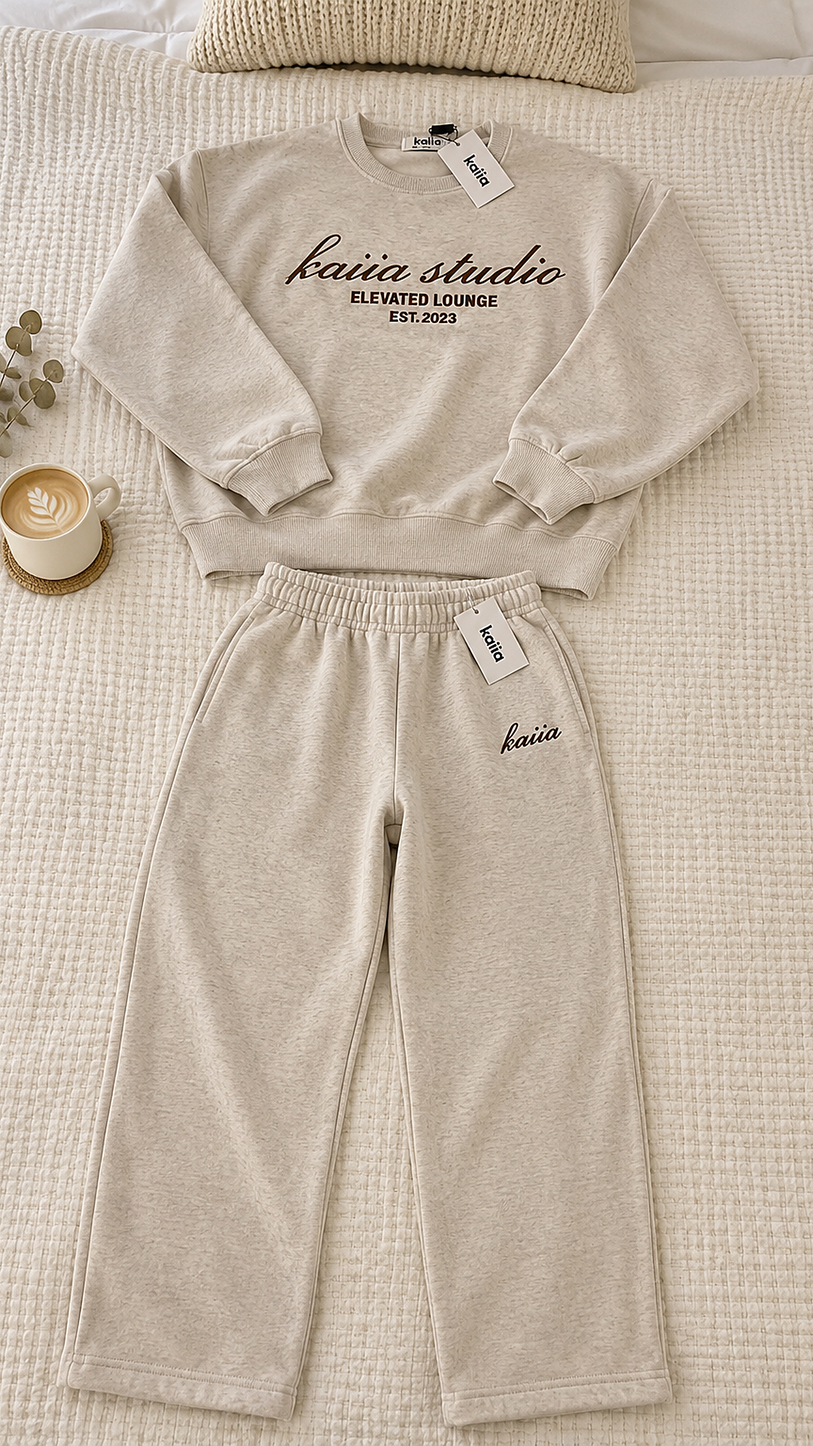
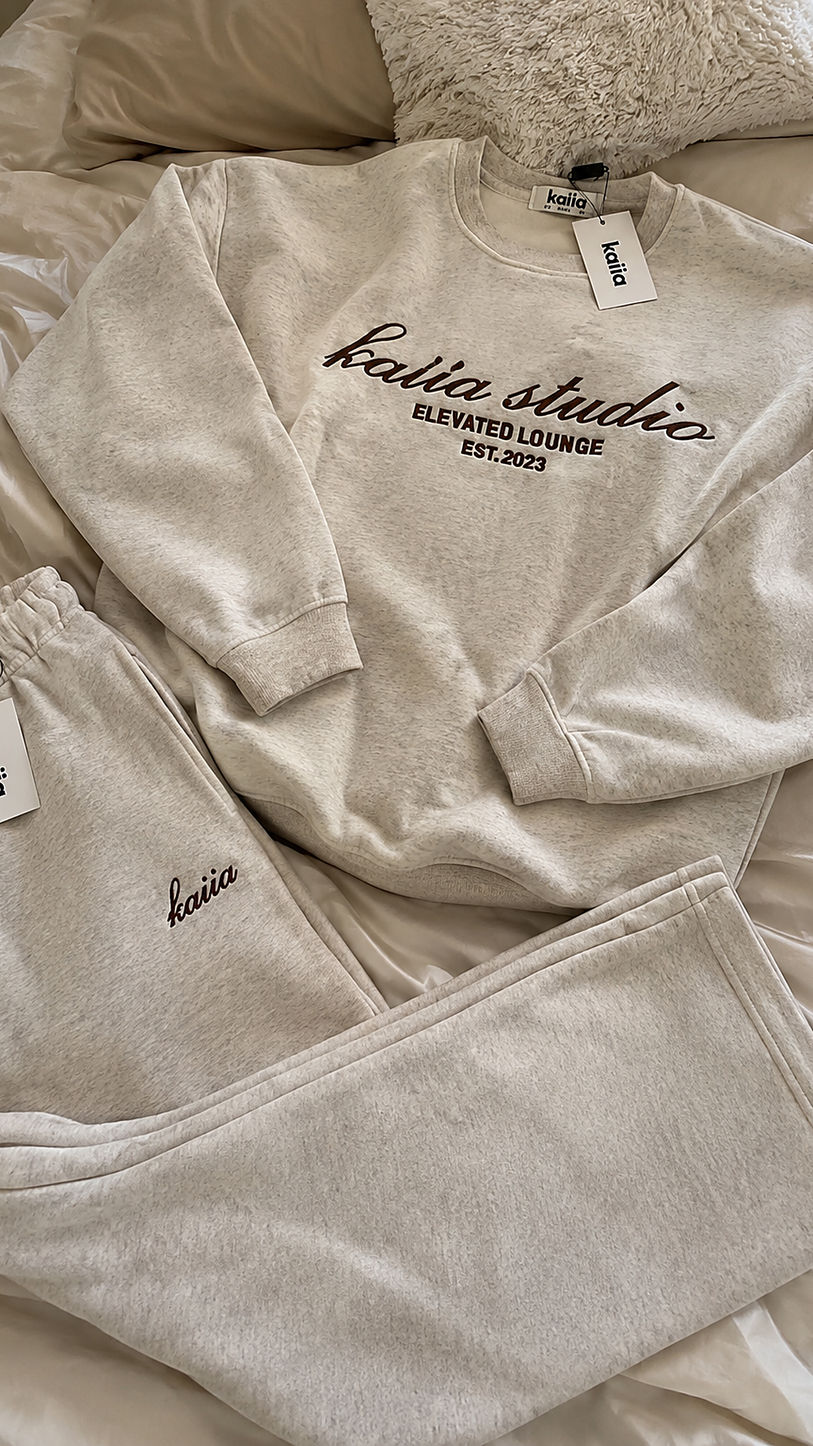
Casual UGC look (no grain), Kaiia slides redone
Claude-Session: https://claude.ai/code/session_01Y5GtWaWrAuZEV1WuXCYGFS

diff --git a/skills/viral-slideshow-factory/SKILL.md b/skills/viral-slideshow-factory/SKILL.md
@@ -17,7 +17,7 @@ This is how the user works now. They send a **TikTok video**: an uploaded video 
 2. **Break it down.** `python3 $S/video_breakdown.py <run>/_research/orig/video.mp4 <run>/_research/orig/breakdown` cuts the video into shots and keeps the sharpest still from each (`shots/NN.jpg`), plus `contact.jpg` (every still with its time) and `audio.m4a`. Look at `contact.jpg`, then every still at full size. For each shot note: what happens, the on-screen text (read it off the still, word for word), who's in it and how they're framed, the product (how it's shown, its size against hands), setting, light and mood. Add what you can tell from the caption and the sound (voiceover or music; say if you can't hear it).
 3. **Turn the shots into slides** (write this in `_build/plan.md` before generating anything):
    - **Slide 1 is always a hook slide (the user's rule, 10 Nov).** Its only job is to stop the scroll and make people swipe: a short punchy line (under 10 words) on a striking, relatable photo. In longer slideshows it doesn't have to show the product (a reaction or relatable moment can work); in 2-slide posts it always does (see below). Take the angle from the video's hook (opening line, spoken hook or caption) but write it as a curiosity line that the next slides pay off, e.g. "STOP buying the bad b on its own 😭". The video's own first shot usually becomes slide 2.
-   - **Look (the user's rule, 10 Nov): clean, aesthetic, bottom-of-funnel.** Photos are sharp, bright and styled: soft natural light, tidy neutral setting, a few nice props, the product the clear hero and in focus. No grain, no blur, no mess, no "phone camera" effect (make_slides.py no longer adds one; leave `phoneify` off). This overrides the older "casual, messy, a little grain" notes in references/recreate.md.
+   - **Look (the user's rule, 10 Nov): casual UGC.** It should look like a normal person snapped it on their phone to show what they just got: casual angle (often from above or slightly tilted), natural home daylight, a real everyday bedroom/room (lived-in but not messy), nothing styled like a shoot (no props arranged around the product, no studio look). The product is the clear focus and sharp. **No grain or blur** (make_slides.py no longer adds any; leave `phoneify` off, and don't ask ChatGPT for grain).
    - **Clothing is laid out on a bed, not worn (the user's rule, 10 Nov; replaces the 7 Nov 'worn, never laid flat' rule).** Style it neatly on a made bed with a few aesthetic props, shot from above or at a slight angle, no people. Other products: styled on a bed / surface too unless the original clearly shows it in use.
    - **2-slide posts show the product on both slides.** Slide 1 is still the hook (the line is the hook), but the photo is an aesthetic product shot, not a product-free mood shot. Slide 2 is the second angle (worn / open / in use / close-up of the detail) with the basket CTA.
    - **How many slides (the user's rule, 10 Nov):** short, simple videos (roughly under 15 seconds, one or two shots, one line of on-screen text, no voiceover story, e.g. a product shown with "X have the nicest gift sets") are **exactly 2 slides**: slide 1 the hook, slide 2 the product reveal with the selling line and the basket CTA. Don't pad them out with extra slides. Only videos that tell a longer story (voiceover, several moments such as unboxing, opening doors, using it, a result) get more: one slide per key moment in the video's order, merging shots that show the same thing and dropping filler, usually 4-7.

diff --git a/skills/viral-slideshow-factory/references/recreate.md b/skills/viral-slideshow-factory/references/recreate.md
@@ -43,7 +43,7 @@ Real TikTok slideshows look like phone photos: natural light, a bit of clutter, 
 - Benefits only: no invented personal results or medical claims.
 
 ## Make it look genuine (the user's feedback, 7 Nov; REPLACED on 10 Nov)
-**10 Nov: the user now wants clean, aesthetic, bottom-of-funnel photos: sharp, bright, tidy, product as the hero, no grain or mess. Ignore the grain/mess advice below; keep the parts about people wearing clothes and the product being clearly visible.**
+**10 Nov: casual UGC look (a real person's quick phone photo), but sharp: NO grain, no blur. Lived-in but not messy. Clothing laid on a bed, not worn.**
 Staged, tidy, product-centred images read as AI ads. Every photo prompt should ask for:
 - a genuine, unedited phone photo a normal person posted: candid, slightly tilted, imperfect framing, mixed home lighting (lamp, phone flash), a little grain;
 - an ordinary lived-in background with some mess (unmade bed, mug, charger, clothes on a chair);
